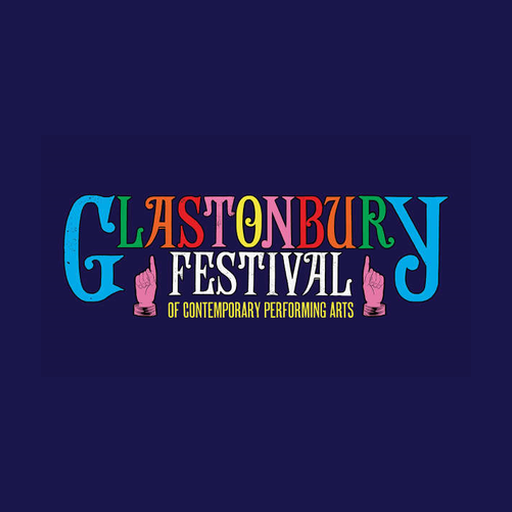
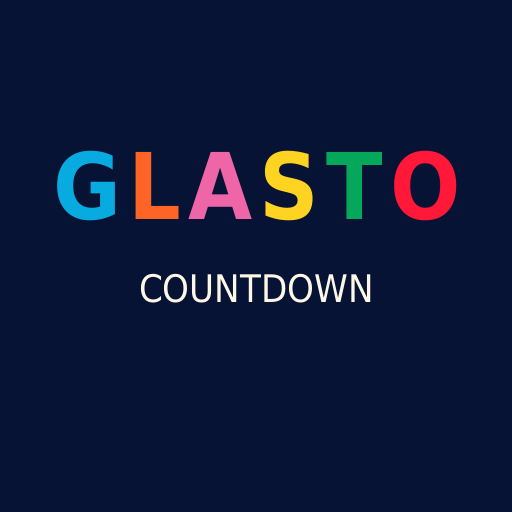
Add files via upload

Changed region(s): [[0.0938, 0.2812, 0.9062, 0.625]]

diff --git a/index.html b/index.html
@@ -3,98 +3,163 @@
 <head>
 <meta charset="utf-8">
 <meta name="viewport" content="width=device-width,initial-scale=1,viewport-fit=cover">
-<meta name="theme-color" content="#19164b">
+<meta name="theme-color" content="#dcdcdc">
+<meta name="robots" content="noindex,nofollow">
 <link rel="manifest" href="/manifest.json">
 <link rel="icon" href="/assets/icon-192.png" sizes="192x192">
 <link rel="apple-touch-icon" href="/assets/icon-192.png">
-<title>Glastonbury Queue</title>
+<title>Glastonbury Countdown</title>
 <style>
 *{box-sizing:border-box}
 html,body{margin:0;min-height:100%;font-family:Arial,Helvetica,sans-serif;color:#303030}
-body{background:#dcdcdc;padding:42px 18px}
+body{background:#dcdcdc;padding:24px 18px 18px}
 .page{width:min(820px,100%);margin:auto}
-.banner{width:100%;background:#19164b;border-radius:4px;padding:26px 30px;display:flex;justify-content:center}
-.banner img{display:block;width:min(100%,700px);height:auto}
-h1{font-size:clamp(25px,4vw,34px);font-weight:400;margin:30px 0 38px}
+
+.banner{
+  width:100%;background:#071334;border-radius:3px;
+  padding:18px 24px 14px;text-align:center;overflow:hidden
+}
+.glasto{
+  display:grid;grid-template-columns:repeat(6,1fr);align-items:center;
+  width:84%;margin:0 auto;
+  font-family:Impact,"Arial Narrow",Arial,sans-serif;
+  font-stretch:condensed;font-size:clamp(66px,13.2vw,118px);
+  line-height:.84;letter-spacing:0
+}
+.glasto span{display:block;text-align:center}
+.glasto span:nth-child(1){color:#08abe0}
+.glasto span:nth-child(2){color:#ff6427}
+.glasto span:nth-child(3){color:#ef66a8}
+.glasto span:nth-child(4){color:#ffd321}
+.glasto span:nth-child(5){color:#05a75a}
+.glasto span:nth-child(6){color:#ff1838}
+.glasto span:nth-child(7){color:#ef66a8}
+.glasto span:nth-child(8){color:#ff6427}
+.glasto span:nth-child(9){color:#ffd321}
+.glasto span:nth-child(10){color:#05a75a}
+.glasto span:nth-child(11){color:#08abe0}
+.glastonbury{
+  width:96%;
+  grid-template-columns:repeat(11,1fr);
+  font-size:clamp(42px,8.6vw,78px);
+  letter-spacing:0;
+}
+
+.countdown-title{
+  color:#fff7e6;font-family:"Arial Narrow",Arial,sans-serif;font-weight:600;
+  font-size:clamp(30px,6.2vw,53px);line-height:1;letter-spacing:.08em;
+  white-space:nowrap;margin-top:4px
+}
+.star{font-family:Arial,Helvetica,sans-serif;font-size:.42em;vertical-align:top;margin-left:8px}
+
+h1{font-size:clamp(25px,4vw,34px);font-weight:400;margin:0 0 28px}
+.queue-section{margin-top:58px;padding:0 0 12px}
 .queue{height:46px;background:#4b4d52;border:4px solid #4b4d52;display:grid;grid-template-columns:repeat(60,1fr);gap:2px}
 .cell{position:relative;overflow:hidden;background:#4b4d52}
 .fill{position:absolute;left:0;top:0;bottom:0;width:0;background:#54b982}
-.count{text-align:center;margin-top:50px}
+.count{text-align:center;margin-top:40px}
 .days{font-size:clamp(84px,19vw,140px);font-weight:700;line-height:.82;color:#222}
 .label{font-size:clamp(20px,4vw,28px);font-weight:700;letter-spacing:4px;margin-top:18px}
 
-.install-area{text-align:right;margin-top:72px}
+.install-area{text-align:right;margin-top:58px}
 .install-btn{
-  appearance:none;border:0;background:#222;color:#fff;border-radius:999px;
-  padding:15px 24px;font:700 14px Arial,Helvetica,sans-serif;
-  letter-spacing:.4px;cursor:pointer
+ appearance:none;border:0;background:#222;color:#fff;border-radius:999px;
+ padding:13px 22px;font:700 12px Arial,Helvetica,sans-serif;
+ letter-spacing:.35px;cursor:pointer
 }
 .install-btn:hover{background:#383838}
-.install-help{display:none;margin:14px 0 0 auto;max-width:430px;font-size:13px;line-height:1.45;color:#666;text-align:right}
+.install-help{display:none;margin:12px 0 0 auto;max-width:430px;font-size:13px;line-height:1.45;color:#666;text-align:right}
 .install-help.show{display:block}
+.disclaimer{margin:54px 6px 0;font-size:11px;line-height:1.65;color:#444}
+.disclaimer .mark{font-weight:700;margin-right:5px}
 
 @media(max-width:600px){
- body{padding:18px 12px}
- .banner{padding:18px 16px}
- h1{margin:22px 0 28px}
+ body{padding:14px 12px}
+ .banner{padding:16px 12px 12px}
+ .glasto{letter-spacing:-1px}
+ .countdown-title{letter-spacing:-.5px}
+ h1{margin:20px 0 24px}
+ .queue-section{margin-top:44px}
  .queue{height:38px}
- .count{margin-top:40px}
+ .count{margin-top:36px}
+ .install-area{margin-top:54px}
+ .disclaimer{margin-top:44px}
 }
 </style>
 </head>
 <body>
 <main class="page">
-<div class="banner"><img src="assets/glastonbury-logo.png" alt="Glastonbury Festival of Contemporary Performing Arts"></div>
-<h1>You are now in the queue!</h1>
-<div class="queue" id="queue"></div>
-<div class="count">
- <div class="days" id="days">---</div>
- <div class="label">DAYS TO GO</div>
-</div>
-<div class="install-area" id="installArea">
-  <button class="install-btn" id="installBtn">INSTALL THE COUNTDOWN</button>
-  <div class="install-help" id="installHelp"></div>
-</div>
+  <header class="banner" aria-label="Glastonbury Countdown">
+    <div class="glasto glastonbury" aria-hidden="true"><span>G</span><span>L</span><span>A</span><span>S</span><span>T</span><span>O</span><span>N</span><span>B</span><span>U</span><span>R</span><span>Y</span></div>
+    <div class="countdown-title">COUNTDOWN<span class="star">*</span></div>
+  </header>
+
+  <section class="queue-section">
+    <h1>You are now in the queue!</h1>
+    <div class="queue" id="queue" aria-label="Countdown queue progress"></div>
+
+    <div class="count">
+      <div class="days" id="days" title="Countdown to Wednesday 23 June 2027">---</div>
+      <div class="label">DAYS TO GO</div>
+    </div>
+  </section>
+
+  <div class="install-area" id="installArea">
+    <button class="install-btn" id="installBtn">INSTALL THE COUNTDOWN</button>
+    <div class="install-help" id="installHelp"></div>
+  </div>
+
+  <div class="disclaimer"><div><span class="mark">*</span>Unofficial fan-made countdown.</div><div>Not affiliated with or endorsed by Glastonbury Festival.</div></div>
 </main>
+
 <script>
-const START=new Date("2026-10-04T00:00:00");
-const FINISH=new Date("2027-06-23T00:00:00");
-const BLOCKS=60,STARTING_BLOCKS=2,SUBDIVISIONS=10;
-const now=new Date(),total=FINISH-START;
-const elapsed=Math.max(0,Math.min(total,now-START));
-const progress=total>0?elapsed/total:1;
-const exact=STARTING_BLOCKS+progress*(BLOCKS-STARTING_BLOCKS);
-const snapped=Math.floor(exact*SUBDIVISIONS)/SUBDIVISIONS;
-const q=document.getElementById("queue");
-for(let i=0;i<BLOCKS;i++){
- const c=document.createElement("div");c.className="cell";
- const f=document.createElement("div");f.className="fill";
- f.style.width=Math.max(0,Math.min(1,snapped-i))*100+"%";
- c.appendChild(f);q.appendChild(c);
-}
-const left=Math.max(0,Math.ceil((FINISH-now)/86400000));
-document.getElementById("days").textContent=left;
-if(now>=FINISH)document.querySelector("h1").textContent="You're in!";
-if("serviceWorker"in navigator&&location.protocol.startsWith("http"))navigator.serviceWorker.register("./sw.js");
+const START = new Date(2026, 9, 4);   // 4 Oct 2026, local midnight
+const FINISH = new Date(2027, 5, 23); // 23 Jun 2027, local midnight
+const BLOCKS=60, STARTING_BLOCKS=2, SUBDIVISIONS=10;
 
-let deferredInstallPrompt = null;
-const installArea = document.getElementById("installArea");
-const installBtn = document.getElementById("installBtn");
-const installHelp = document.getElementById("installHelp");
+function localDayNumber(d){
+  return Date.UTC(d.getFullYear(),d.getMonth(),d.getDate())/86400000;
+}
 
-function isIOS(){
-  return /iphone|ipad|ipod/i.test(navigator.userAgent);
+function render(){
+  const now=new Date();
+
+  // Calendar-day countdown: avoids the number changing part-way through a day.
+  const daysLeft=Math.max(0,localDayNumber(FINISH)-localDayNumber(now));
+  document.getElementById("days").textContent=daysLeft;
+
+  const totalDays=localDayNumber(FINISH)-localDayNumber(START);
+  const elapsedDays=Math.max(0,Math.min(totalDays,localDayNumber(now)-localDayNumber(START)));
+  const progress=totalDays>0?elapsedDays/totalDays:1;
+  const exact=STARTING_BLOCKS+progress*(BLOCKS-STARTING_BLOCKS);
+  const snapped=Math.floor(exact*SUBDIVISIONS)/SUBDIVISIONS;
+
+  const q=document.getElementById("queue");
+  q.innerHTML="";
+  for(let i=0;i<BLOCKS;i++){
+    const c=document.createElement("div"); c.className="cell";
+    const f=document.createElement("div"); f.className="fill";
+    f.style.width=Math.max(0,Math.min(1,snapped-i))*100+"%";
+    c.appendChild(f); q.appendChild(c);
+  }
+  if(daysLeft===0) document.querySelector("h1").textContent="You're in!";
 }
-function isStandalone(){
-  return window.matchMedia("(display-mode: standalone)").matches || window.navigator.standalone === true;
+render();
+
+if("serviceWorker" in navigator && location.protocol.startsWith("http")){
+  navigator.serviceWorker.register("./sw.js");
 }
-if(isStandalone()){
-  installArea.style.display="none";
-}
-window.addEventListener("beforeinstallprompt",(e)=>{
-  e.preventDefault();
-  deferredInstallPrompt=e;
-});
+
+let deferredInstallPrompt=null;
+const installArea=document.getElementById("installArea");
+const installBtn=document.getElementById("installBtn");
+const installHelp=document.getElementById("installHelp");
+
+function isIOS(){return /iphone|ipad|ipod/i.test(navigator.userAgent)}
+function isStandalone(){return matchMedia("(display-mode: standalone)").matches || navigator.standalone===true}
+if(isStandalone()) installArea.style.display="none";
+
+addEventListener("beforeinstallprompt",e=>{e.preventDefault();deferredInstallPrompt=e});
 installBtn.addEventListener("click",async()=>{
   installHelp.classList.remove("show");
   if(deferredInstallPrompt){
@@ -103,15 +168,12 @@ installBtn.addEventListener("click",async()=>{
     deferredInstallPrompt=null;
     return;
   }
-  if(isIOS()){
-    installHelp.innerHTML="On iPhone: tap <b>Share</b>, then <b>Add to Home Screen</b>, then <b>Add</b>.";
-  }else{
-    installHelp.innerHTML="Open your browser menu and choose <b>Install</b> or <b>Add to Home screen</b>.";
-  }
+  installHelp.innerHTML=isIOS()
+    ?"On iPhone: tap <b>Share</b>, then <b>Add to Home Screen</b>, then <b>Add</b>."
+    :"Open your browser menu and choose <b>Install</b> or <b>Add to Home screen</b>.";
   installHelp.classList.add("show");
 });
-window.addEventListener("appinstalled",()=>{ installArea.style.display="none"; });
-
+addEventListener("appinstalled",()=>{installArea.style.display="none"});
 </script>
 </body>
 </html>

diff --git a/sw.js b/sw.js
@@ -1,4 +1,4 @@
-const CACHE='glasto-pwa-v7-60blocks';
+const CACHE='glasto-pwa-v12-final';
 const FILES=[
   '/',
   '/index.html',
